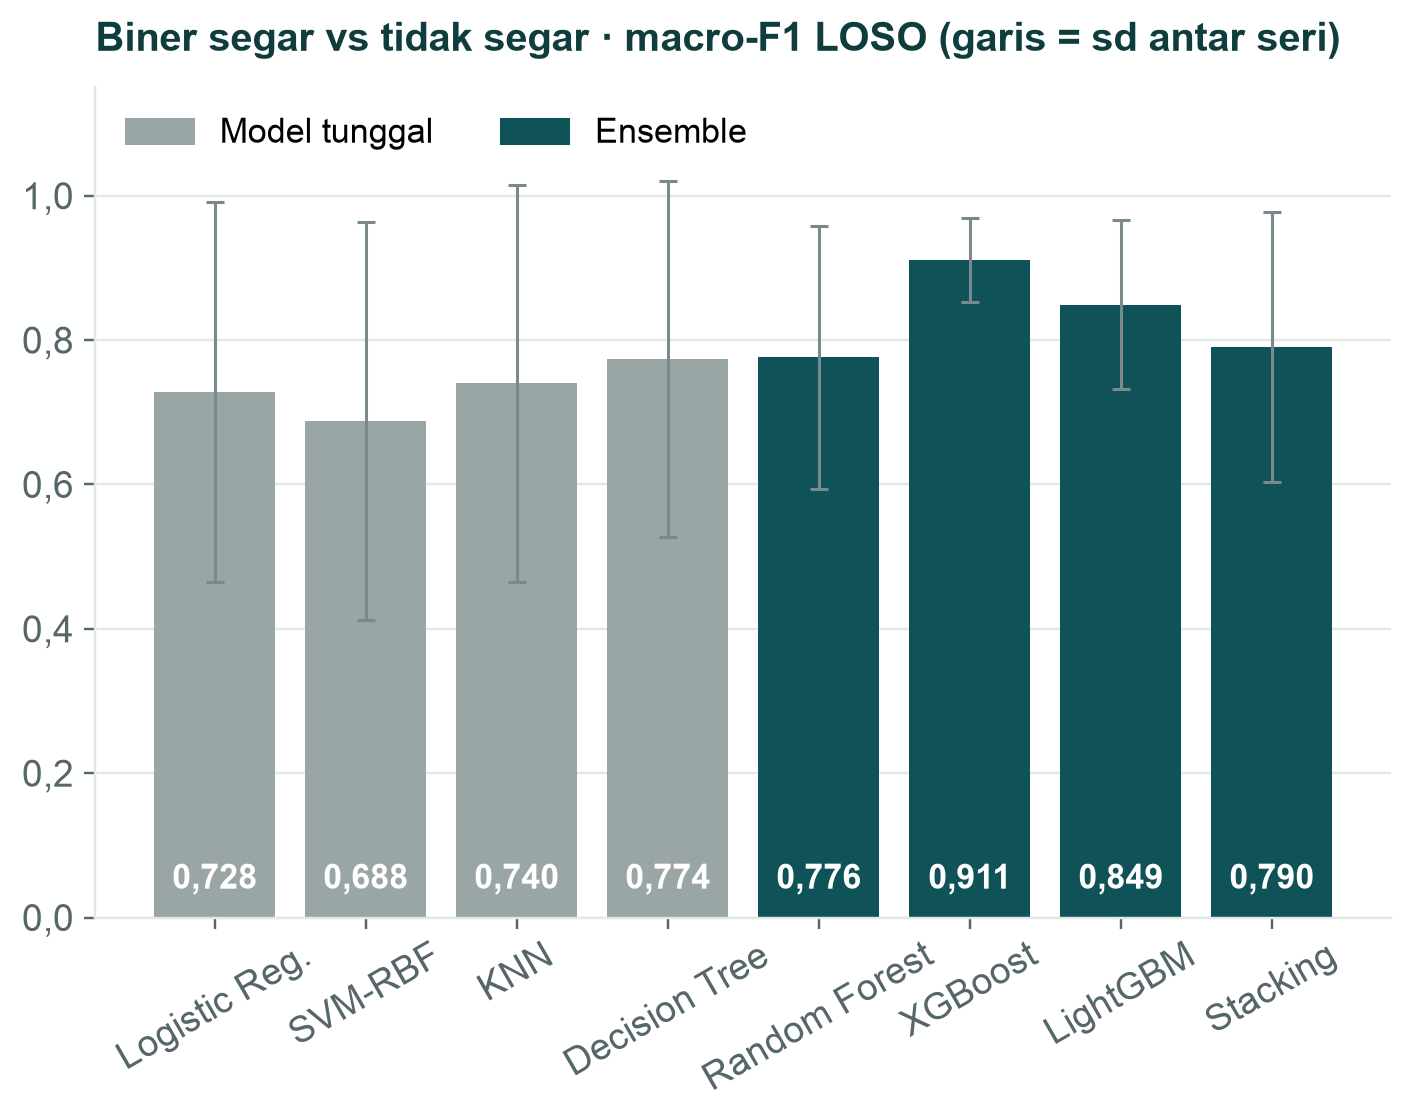
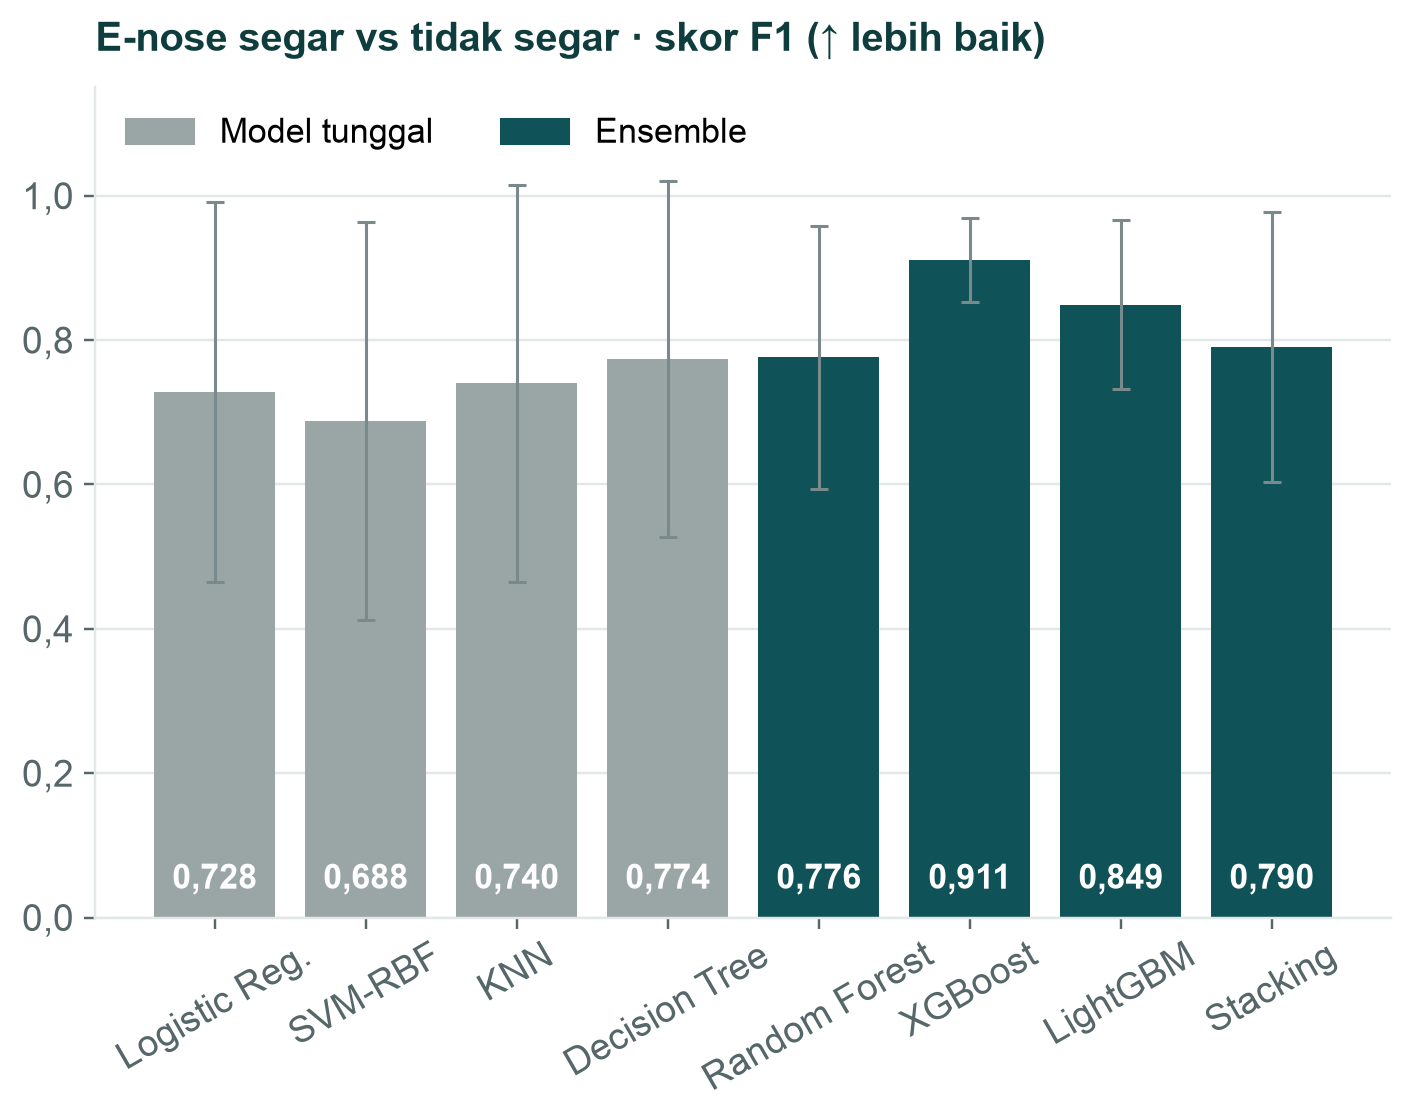
feat(figures): plain-language chart titles and a two-line AL chart

Changed region(s): [[0.1246, 0.0, 0.9653, 0.0625], [0.0623, 0.0312, 0.0934, 0.0625]]

diff --git a/scripts/make_figures.py b/scripts/make_figures.py
@@ -55,14 +55,14 @@ DISP = {"LogReg": "Logistic Reg.", "DecisionTree": "Decision Tree", "RandomFores
 # --- slide 7: augmentation
 aug = {(r["model"], r["variant"]): r["f1"] for r in D["enose_augment"]}
 var = ["none", "jitter", "scaling", "jitter+scaling", "jitter+scaling x4"]
-lab = ["tanpa", "jitter", "scaling", "jitter +\nscaling", "jitter +\nscaling ×4"]
+lab = ["tanpa", "jitter\n(derau)", "scaling\n(skala)", "jitter +\nscaling", "jitter +\nscaling ×4"]
 fig, ax = plt.subplots(figsize=(7.2, 4.4))
 x = range(len(var))
 b1 = ax.bar([i - 0.2 for i in x], [aug[("LogReg", v)] for v in var], 0.38, color=GREY, label="Logistic Regression")
 b2 = ax.bar([i + 0.2 for i in x], [aug[("LightGBM", v)] for v in var], 0.38, color=TEAL, label="LightGBM")
 label_bars(ax, b1); label_bars(ax, b2)
 ax.set_xticks(list(x), lab); ax.set_ylim(0, 0.7); ax.yaxis.set_major_formatter(comma(1))
-ax.set_title("Augmentasi (hanya data latih) · macro-F1 LOSO, 4 kelas"); ax.grid(axis="y", color=GRID)
+ax.set_title("Skor F1 per jenis augmentasi (↑ lebih baik)"); ax.grid(axis="y", color=GRID)
 ax.set_axisbelow(True); ax.legend(loc="upper center", bbox_to_anchor=(0.5, -0.18), ncol=2)
 save(fig, "s07_augment")
 
@@ -76,7 +76,7 @@ for b, r in zip(bars, rows):
     ax.text(b.get_x() + b.get_width() / 2, 0.04, fmt(r["f1"]), ha="center", color="white", fontsize=11,
             fontweight="bold")
 ax.set_ylim(0, 1.15); ax.yaxis.set_major_formatter(comma(1)); ax.tick_params(axis="x", rotation=30)
-ax.set_title("Biner segar vs tidak segar · macro-F1 LOSO (garis = sd antar seri)")
+ax.set_title("E-nose segar vs tidak segar · skor F1 (↑ lebih baik)")
 ax.grid(axis="y", color=GRID); ax.set_axisbelow(True)
 ax.legend(handles=[plt.Rectangle((0, 0), 1, 1, color=GREY), plt.Rectangle((0, 0), 1, 1, color=TEAL)],
           labels=["Model tunggal", "Ensemble"], loc="upper left", ncol=2)
@@ -93,7 +93,7 @@ for b, r in zip(bars, rows):
     b.set_edgecolor(AMBER if r["model"] == best else "none"); b.set_linewidth(2.5)
 label_bars(ax, bars, horizontal=True, inside=True)
 ax.invert_yaxis(); ax.set_xlim(0, 1.8); ax.xaxis.set_major_formatter(comma(1))
-ax.set_title("RMSE uji scaffold (lebih kecil lebih baik)"); ax.grid(axis="x", color=GRID); ax.set_axisbelow(True)
+ax.set_title("Kelarutan · error RMSE (↓ lebih baik)"); ax.grid(axis="x", color=GRID); ax.set_axisbelow(True)
 save(fig, "s09_sol_ensemble")
 
 # --- slide 10: per-bin MAE
@@ -136,13 +136,37 @@ al_plot(D["al_solubility"], "s12_al_solubility", "AqSolDB · RMSE uji scaffold v
 al_plot(D["al_enose"], "s13_al_enose", "E-nose · macro-F1 seri uji vs jumlah label",
         "macro-F1 (↑)", (0.7, 0.95), "semua pool", 2, (6.4, 4.6))
 
+# --- simple AL chart: random vs bandit UCB1 only
+al = D["al_solubility"]
+need = al["labels_to_match_random"]
+target = al["target_random_final"]
+fig, ax = plt.subplots(figsize=(7.4, 4.6))
+ax.plot(al["n_labelled"], al["curves"]["random"], marker="o", ms=3.5, lw=2, color=GREY, label="pilih acak")
+ax.plot(al["n_labelled"], al["curves"]["bandit-ucb"], marker="o", ms=3.5, lw=2.8, color=RED, label="agen bandit (UCB1)")
+ax.axhline(target, ls=":", lw=1.2, color=INK)
+for n, col in [(need["bandit-ucb"], RED), (need["random"], GREY)]:
+    ax.plot([n], [target], "o", ms=10, mfc="none", mec=col, mew=2.2)
+ax.annotate(f"{need['bandit-ucb']:,} label".replace(",", "."), (need["bandit-ucb"], target), xytext=(0, -26),
+            textcoords="offset points", ha="center", fontsize=11, color=RED, fontweight="bold")
+ax.annotate(f"{need['random']:,} label".replace(",", "."), (need["random"], target), xytext=(-8, 16),
+            textcoords="offset points", ha="right", fontsize=11, color=MUTED, fontweight="bold")
+ax.set_ylim(1.35, 1.9); ax.yaxis.set_major_formatter(comma(1))
+ax.xaxis.set_major_formatter(FuncFormatter(lambda v, _: f"{int(v):,}".replace(",", ".")))
+ax.set_xlabel("jumlah data berlabel"); ax.set_ylabel("error RMSE (↓)")
+ax.set_title("Kelarutan · error vs jumlah label (rata-rata 5 percobaan)")
+ax.grid(color=GRID); ax.set_axisbelow(True); ax.legend(loc="upper right")
+save(fig, "al_hemat")
+
 # --- slide 13 right: series curve
 sc = D["series_curve"]
 fig, ax = plt.subplots(figsize=(5.6, 4.6))
 bars = ax.barh([r["label"] for r in sc], [r["f1"] for r in sc], color=[TEAL] * 4 + [AMBER] * 3)
+ax.legend(handles=[plt.Rectangle((0, 0), 1, 1, color=TEAL), plt.Rectangle((0, 0), 1, 1, color=AMBER)],
+          labels=["tambah seri (semua baris)", "4 seri, baris dikurangi"], loc="upper center",
+          bbox_to_anchor=(0.45, -0.1), ncol=2, fontsize=10)
 label_bars(ax, bars, horizontal=True, inside=True)
 ax.invert_yaxis(); ax.set_xlim(0, 1); ax.xaxis.set_major_formatter(comma(1))
-ax.set_title("Tambah seri vs tambah baris (XGBoost biner)"); ax.grid(axis="x", color=GRID); ax.set_axisbelow(True)
+ax.set_title("E-nose · skor F1 saat data latih ditambah"); ax.grid(axis="x", color=GRID); ax.set_axisbelow(True)
 save(fig, "s13_series_curve")
 
 # --- slide 14: SHAP
@@ -151,12 +175,12 @@ fig, ax = plt.subplots(figsize=(5.9, 4.3))
 bars = ax.barh([k for k, _ in st], [v for _, v in st], color=TEAL)
 label_bars(ax, bars, 2, horizontal=True)
 ax.invert_yaxis(); ax.set_xlim(0, 0.7); ax.xaxis.set_major_formatter(comma(1))
-ax.set_title("Kelarutan · mean |SHAP| (LightGBM + Optuna)"); ax.grid(axis="x", color=GRID); ax.set_axisbelow(True)
+ax.set_title("Kelarutan · fitur paling berpengaruh (SHAP)"); ax.grid(axis="x", color=GRID); ax.set_axisbelow(True)
 save(fig, "s14_shap_sol")
 se = list(D["enose_shap_sensors"].items())
 fig, ax = plt.subplots(figsize=(5.9, 4.3))
 bars = ax.barh([k for k, _ in se], [v for _, v in se], color=[RED if k == "MQ135" else AMBER for k, _ in se])
 label_bars(ax, bars, 2, horizontal=True)
 ax.invert_yaxis(); ax.set_xlim(0, 5); ax.xaxis.set_major_formatter(comma(0))
-ax.set_title("E-nose biner · mean |SHAP| per sensor (seri uji)"); ax.grid(axis="x", color=GRID); ax.set_axisbelow(True)
+ax.set_title("E-nose · sensor paling berpengaruh (SHAP)"); ax.grid(axis="x", color=GRID); ax.set_axisbelow(True)
 save(fig, "s14_shap_enose")
